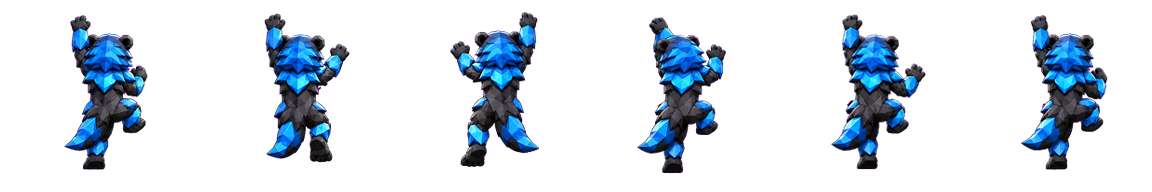
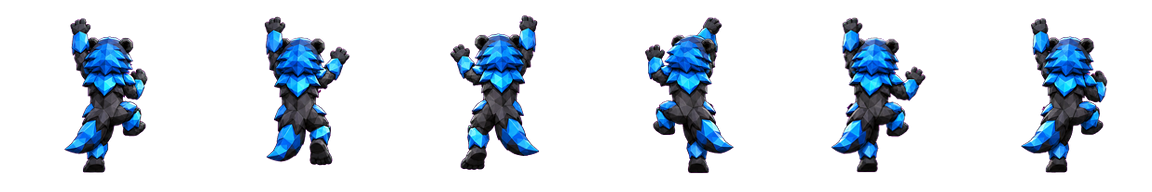
Give Void climb loops a hand-over-hand rhythm; match stride hue to the idle
Reviewing all 18 showed the smoothest ordering of a bag of poses keeps the
same hand high throughout (mirroring the rest to match), so most loops read
as a one-armed shimmy. The loop search now prefers any ordering whose high
hand (the side the top of the silhouette leans to) holds one side for a run
of frames and then the other, the Wraith's rhythm, and only then minimises
the step; 16 of 18 alternate (the heron and ibex poses are level-handed).
Every Void climb still changes less per displayed frame than the Wraith's.

A stride whose palette drifted from the idle's (the panther's run-b was
10 degrees pinker, which pulsed its tint once a step) is rotated back in hue.

Claude-Session: https://claude.ai/code/session_01C6YuTAMz8M6AV3x5Dgg5ii

diff --git a/scripts/climber-art/process_paid.py b/scripts/climber-art/process_paid.py
@@ -29,6 +29,10 @@ MIN_SHARED_SCALE = 0.65
 # frame's body may be scaled to match its cycle's reference mass, and how far it
 # may be translated onto the reference body.
 RUN_SCALE_RANGE = (0.85, 1.2)
+# A stride whose colour drifted from the idle's is rotated back in hue, within this many degrees.
+HUE_MATCH_MAX = 15.0
+HUE_MATCH_MIN = 3.0
+HUE_SAMPLE_SATURATION = 0.5
 CLIMB_SCALE_RANGE = (0.9, 1.1)
 STABILISE_SHIFT = 24
 BODY_BLUR = 3
@@ -251,6 +255,43 @@ def cycle_overrides(folder: Path) -> dict:
     return {'mirror': mirror, 'exclude': sorted(set(exclude)), 'order': order}
 
 
+HIGH_BAND = 0.15
+LOWER_BAND = 0.4
+HIGH_SIDE_MIN_OFFSET = 6
+
+
+def high_side(cell: Image.Image) -> int:
+    """Which side the highest limb is on: -1 left, +1 right, 0 centred or level.
+
+    In a rear-view climbing pose the reaching hand is the highest part of the
+    figure, so the horizontal centre of the top HIGH_BAND of the silhouette,
+    against the centre of its lower LOWER_BAND (the legs and hips), says
+    which hand is up. Both hands up, or a hand not clearly to one side, is 0.
+    """
+    mask = np.asarray(cell)[:, :, 3] > VISIBLE_ALPHA
+    _, top, _, bottom = visible_bounds(cell)
+    height = bottom - top + 1
+    high = mask[top:top + max(1, int(height * HIGH_BAND))]
+    low = mask[bottom + 1 - max(1, int(height * LOWER_BAND)):bottom + 1]
+    offset = np.where(high)[1].mean() - np.where(low)[1].mean()
+    return 0 if abs(offset) < HIGH_SIDE_MIN_OFFSET else (1 if offset > 0 else -1)
+
+
+def hand_over_hand(sides: tuple[int, ...]) -> bool:
+    """True when the high hand holds one side for a run, then the other, like a real climb.
+
+    The Wraith's cycle keeps each hand high for three frames and the other
+    for the next three; a loop whose high hand never changes sides reads as
+    a one-armed shimmy, and one that flips every frame as waving. Centred
+    frames (0) sit in either run.
+    """
+    signed = [side for side in sides if side]
+    if len(signed) < 4 or min(signed.count(1), signed.count(-1)) < 2:
+        return False
+    changes = sum(1 for a, b in zip(signed, signed[1:] + signed[:1]) if a != b)
+    return changes == 2
+
+
 def smoothest_cycle(frames: list[Image.Image], mirror: bool = True, exclude: tuple[int, ...] = (),
                     order: list[str] | None = None) -> tuple[list[Image.Image], dict]:
     """Re-sequence the six climb frames into the loop with the smallest steps.
@@ -269,6 +310,8 @@ def smoothest_cycle(frames: list[Image.Image], mirror: bool = True, exclude: tup
     """
     pool = frames + [ImageOps.mirror(frame) for frame in frames]
     names = [f'{index % 6 + 1}{"m" if index >= 6 else ""}' for index in range(len(pool))]
+    sides = [high_side(frame) for frame in frames]
+    sides = sides + [-side for side in sides]
     masks = [np.asarray(frame)[:, :, 3] > VISIBLE_ALPHA for frame in pool]
     diffs = np.array([[alpha_diff(a, b) for b in masks] for a in masks])
     # Distinctness uses the same measure as the repeat guard, so a loop that
@@ -286,7 +329,11 @@ def smoothest_cycle(frames: list[Image.Image], mirror: bool = True, exclude: tup
             raise InvalidArt('cycle overrides leave fewer than six frames to loop')
         first = allowed[0]
         sources = {i % 6 for i in allowed}
-        best: tuple[tuple[int, int], tuple[int, ...]] | None = None
+        # A loop with a hand-over-hand rhythm beats any smoother one without it:
+        # the smoothest ordering of a bag of poses tends to keep the same hand
+        # high throughout (mirroring the rest to match), which reads as a
+        # one-armed shimmy.
+        best: tuple[tuple[int, int, int], tuple[int, ...]] | None = None
         for rest in itertools.permutations([i for i in allowed if i != first], 5):
             candidate = (first, *rest)
             if {i % 6 for i in candidate} != sources:
@@ -294,7 +341,8 @@ def smoothest_cycle(frames: list[Image.Image], mirror: bool = True, exclude: tup
             if any(same[a, b] for a, b in itertools.combinations(candidate, 2)):
                 continue
             steps = [int(diffs[candidate[i], candidate[(i + 1) % 6]]) for i in range(6)]
-            key = (max(steps), sum(steps))
+            rhythm = 0 if hand_over_hand(tuple(sides[i] for i in candidate)) else 1
+            key = (rhythm, max(steps), sum(steps))
             if best is None or key < best[0]:
                 best = (key, candidate)
         if best is None:
@@ -302,10 +350,49 @@ def smoothest_cycle(frames: list[Image.Image], mirror: bool = True, exclude: tup
         chosen = best[1]
     after = [int(diffs[chosen[i], chosen[(i + 1) % 6]]) for i in range(6)]
     report = {'order': [names[index] for index in chosen],
+              'highSide': [sides[index] for index in chosen],
+              'handOverHand': hand_over_hand(tuple(sides[index] for index in chosen)),
               'stepPixelsBefore': before, 'stepPixelsAfter': after}
     if not mirror or exclude or order is not None:
         report['overrides'] = {'mirror': mirror, 'exclude': list(exclude), 'order': order}
     return [pool[index] for index in chosen], report
+
+
+def mean_hue(cell: Image.Image) -> float | None:
+    """Circular mean hue (degrees) of the cell's saturated, visible pixels; None if too few."""
+    rgba = np.asarray(cell)
+    hsv = np.asarray(Image.fromarray(rgba[:, :, :3]).convert('HSV')).astype(np.float32)
+    chosen = (rgba[:, :, 3] > VISIBLE_ALPHA) & (hsv[:, :, 1] / 255 > HUE_SAMPLE_SATURATION) & (hsv[:, :, 2] / 255 > 0.3)
+    if chosen.sum() < 200:
+        return None
+    angle = np.deg2rad(hsv[:, :, 0][chosen] * 360 / 255)
+    return float(np.rad2deg(np.arctan2(np.sin(angle).mean(), np.cos(angle).mean())) % 360)
+
+
+def hue_rotated(cell: Image.Image, degrees: float) -> Image.Image:
+    rgba = np.asarray(cell)
+    hsv = np.asarray(Image.fromarray(rgba[:, :, :3]).convert('HSV')).copy()
+    hsv[:, :, 0] = ((hsv[:, :, 0].astype(np.int32) + int(round(degrees * 255 / 360))) % 256).astype(np.uint8)
+    rgb = np.asarray(Image.fromarray(hsv, 'HSV').convert('RGB'))
+    return Image.fromarray(np.dstack((rgb, rgba[:, :, 3:4])), 'RGBA')
+
+
+def match_hue(reference: Image.Image, cell: Image.Image) -> tuple[Image.Image, float]:
+    """Rotate the cell's hue onto the reference's mean hue when it drifted by more than HUE_MATCH_MIN.
+
+    Generated strides come back a few degrees off the idle's palette (the
+    panther's run-b pinker than its idle), which pulses the figure's tint once
+    per step; the whole frame rotates together, so a two-tone character keeps
+    its contrast.
+    """
+    base, current = mean_hue(reference), mean_hue(cell)
+    if base is None or current is None:
+        return cell, 0.0
+    shift = ((base - current + 180) % 360) - 180
+    if abs(shift) < HUE_MATCH_MIN:
+        return cell, 0.0
+    shift = float(np.clip(shift, -HUE_MATCH_MAX, HUE_MATCH_MAX))
+    return hue_rotated(cell, shift), round(shift, 1)
 
 
 def stabilise_run(frames: list[Image.Image]) -> tuple[list[Image.Image], list[dict]]:
@@ -327,8 +414,9 @@ def stabilise_run(frames: list[Image.Image]) -> tuple[list[Image.Image], list[di
         frame = scaled_about_root(frames[index], factor)
         frame, dx, _ = translated(frame, int(round(centre - head_centre_x(frame))), 0)
         frame, _ = grounded(frame, MAX_SHIFT)
+        frame, hue_shift = match_hue(frames[0], frame)
         result[index] = frame
-        moves.append({'frame': index + 1, 'scale': round(factor, 3), 'dx': dx})
+        moves.append({'frame': index + 1, 'scale': round(factor, 3), 'dx': dx, 'hueShift': hue_shift})
     return result, moves
 
 

diff --git a/scripts/climber-art/test_process_paid.py b/scripts/climber-art/test_process_paid.py
@@ -215,9 +215,15 @@ class PaidArtTests(unittest.TestCase):
             self.assertEqual(len(set(cycle['order'])), 6)
             chosen = [ranks[int(name[0]) - 1] for name in cycle['order']]
             self.assertEqual(sorted(chosen), [0, 1, 2, 3, 4, 5], cycle)
-            # Every step is one rank apart; the loop closes over the one long gap.
+            # The hand climbs rank by rank, and changes sides twice around the loop (three up on
+            # one side, three on the other) rather than staying on one side for the smoothest run.
+            self.assertTrue(cycle['handOverHand'], cycle)
+            signed = [s for s in cycle['highSide'] if s]  # mid-height ranks read as centred (0)
+            self.assertGreaterEqual(min(signed.count(1), signed.count(-1)), 2, cycle)
+            changes = sum(1 for a, b in zip(signed, signed[1:] + signed[:1]) if a != b)
+            self.assertEqual(changes, 2, cycle)
             steps = sorted(abs(chosen[(i + 1) % 6] - chosen[i]) for i in range(6))
-            self.assertEqual(steps, [1, 1, 1, 1, 1, 5], cycle)
+            self.assertLessEqual(steps[-2], 2, cycle)
 
     def test_run_strides_match_the_idle_height_and_head_column(self):
         with tempfile.TemporaryDirectory() as temp:
@@ -242,6 +248,29 @@ class PaidArtTests(unittest.TestCase):
             self.assertIn(frames[2]['bounds'][3], range(170, 176))
             heights = [f['bounds'][3] - f['bounds'][1] for f in frames[:3]]
             self.assertLessEqual(max(heights) - min(heights), 3, heights)
+
+    def test_run_stride_hue_is_rotated_back_onto_the_idle(self):
+        from process_paid import mean_hue
+        with tempfile.TemporaryDirectory() as temp:
+            folder = Path(temp) / 'kestrel-void'
+            folder.mkdir()
+            poses = atlas(4, 2)  # (20, 90, 210): a saturated blue body
+            draw = ImageDraw.Draw(poses)
+            # run-b drifted 12 degrees towards purple, run-a by 2 (left alone), both same shape.
+            draw.rectangle((2 * 192 + 55, 30, 2 * 192 + 135, 174), fill=(44, 60, 210, 255))
+            draw.rectangle((1 * 192 + 55, 30, 1 * 192 + 135, 174), fill=(20, 84, 210, 255))
+            poses.save(folder / 'kestrel-void-poses.png')
+            atlas(6, 1, varied=True).save(folder / 'kestrel-void-climb.png')
+            report = process_character('kestrel', Path(temp), Path(temp) / 'out')
+            moves = report['sheets']['poses']['stabilised']
+            self.assertEqual(moves[0]['hueShift'], 0.0, moves)
+            self.assertLess(moves[1]['hueShift'], -9, moves)
+            with Image.open(Path(temp) / 'out' / 'kestrel-void-poses-192.png') as out:
+                idle = out.crop((0, 0, 192, 192))
+                run_b = out.crop((2 * 192, 0, 3 * 192, 192))
+                self.assertAlmostEqual(mean_hue(idle), mean_hue(run_b), delta=2.5)
+                # Alpha and shape untouched: same silhouette as the idle.
+                self.assertEqual(visible_bounds(run_b), visible_bounds(idle))
 
     def ranked_climb(self, folder, ranks=(0, 3, 1, 4, 5, 2)):
         # The loop test's fixture: one body, a hand climbing one rank (28px) a frame, odd ranks on

diff --git a/scripts/climber-art/README.md b/scripts/climber-art/README.md
@@ -66,13 +66,21 @@ After that, each cycle is stabilised so the engine's crossfades move limbs
 rather than the whole figure: both run strides are scaled about the anchor to
 the idle's visible height (0.85 to 1.2; not its mass, which a spread stride
 covers less of, so matching it blew the figure up every other step) and their
-head column is moved onto the idle's, then re-grounded. The climb strip is
+head column is moved onto the idle's, then re-grounded; a stride whose
+palette drifted from the idle's (mean hue of the saturated pixels off by 3 to
+15 degrees, which pulsed the panther's tint once a step) is rotated back
+(`hueShift` in the report). The climb strip is
 first re-sequenced into the smoothest loop: every kept frame is used, as
 drawn or mirrored (a rear-view hand-over-hand is symmetric, so a mirrored
 frame is the other hand's reach), no image twice, in the order with the
 smallest silhouette change between consecutive frames, the first kept frame
-staying first; the report's `cycle` lists the order (`4m` = frame 4
-mirrored) and the per-step pixel change before and after. Then climb frames
+staying first. A loop with a hand-over-hand rhythm wins over any smoother
+one without it: the high hand (the side the top of the silhouette leans to)
+holds one side for a run of frames, then the other, as the Wraith's does,
+because the smoothest ordering of a bag of poses keeps the same hand high
+throughout and reads as a one-armed shimmy. The report's `cycle` lists the
+order (`4m` = frame 4 mirrored), `highSide` per frame, `handOverHand`, and
+the per-step pixel change before and after. Then climb frames
 2 to 6 are scaled to frame 1's mass (0.9 to 1.1) and translated onto its body
 (the cross-correlation peak of the blurred alpha, up to 24px), and the strip
 is grounded as a whole. The report's `stabilised` lists each move. Generated
